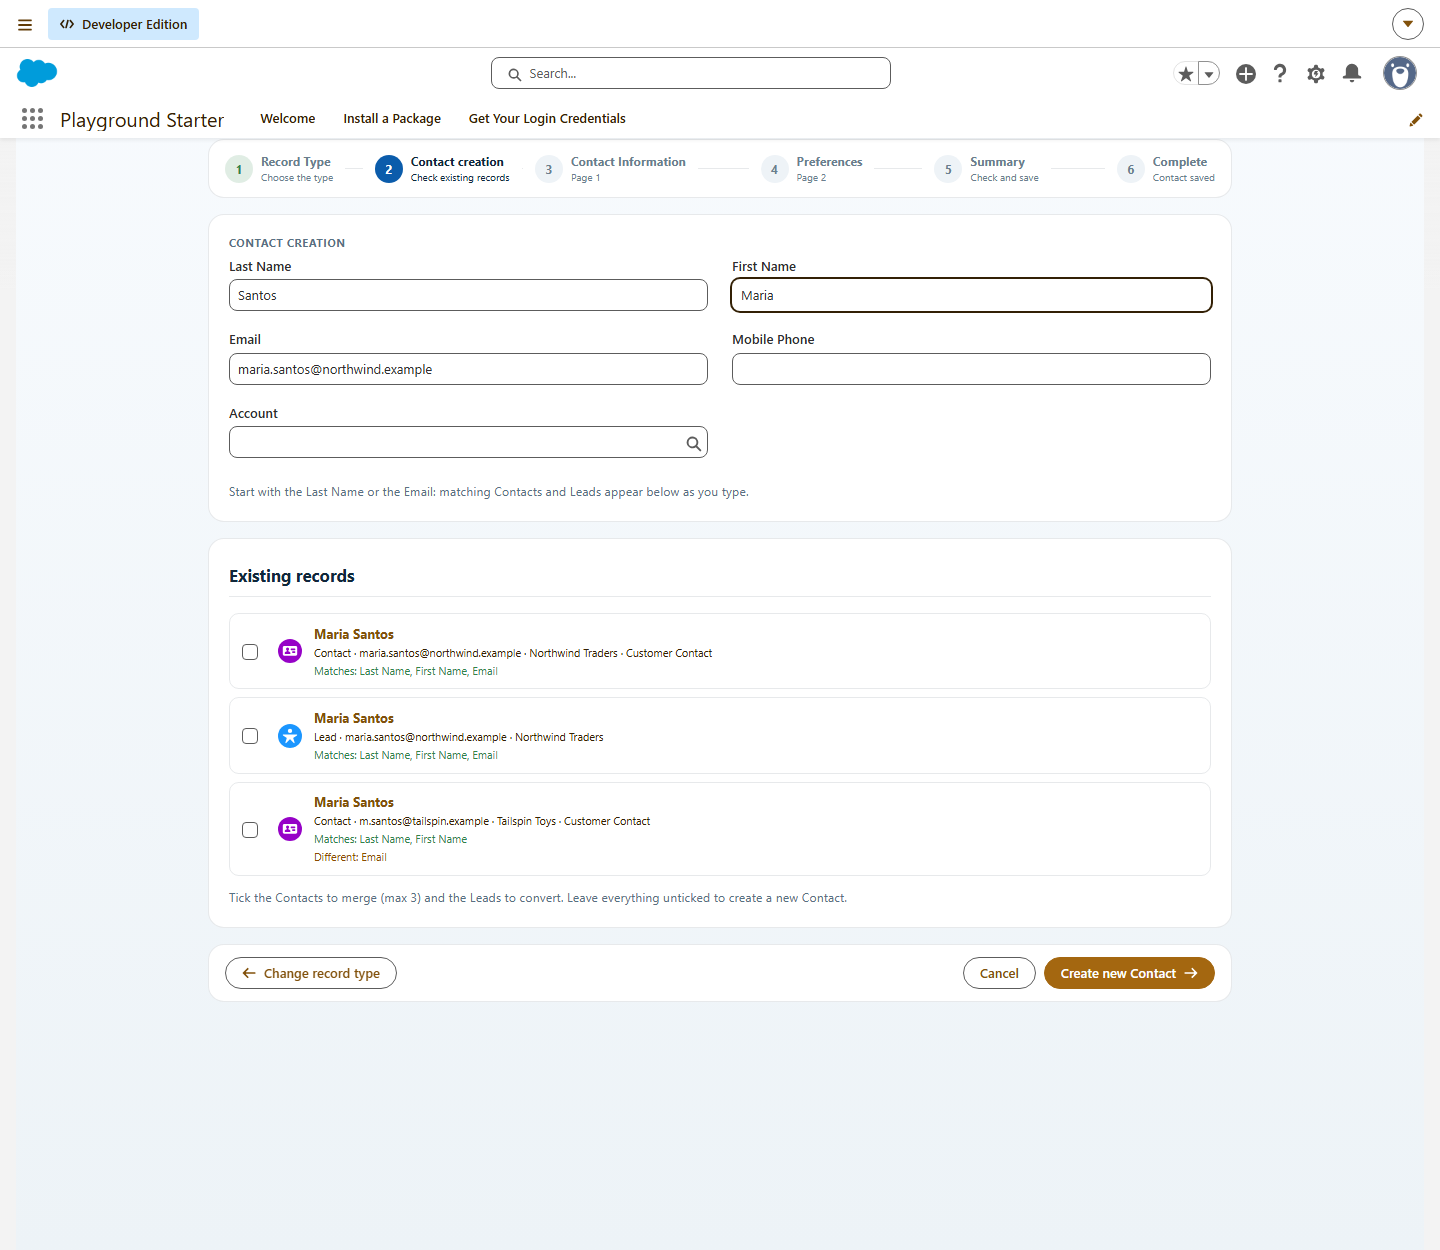
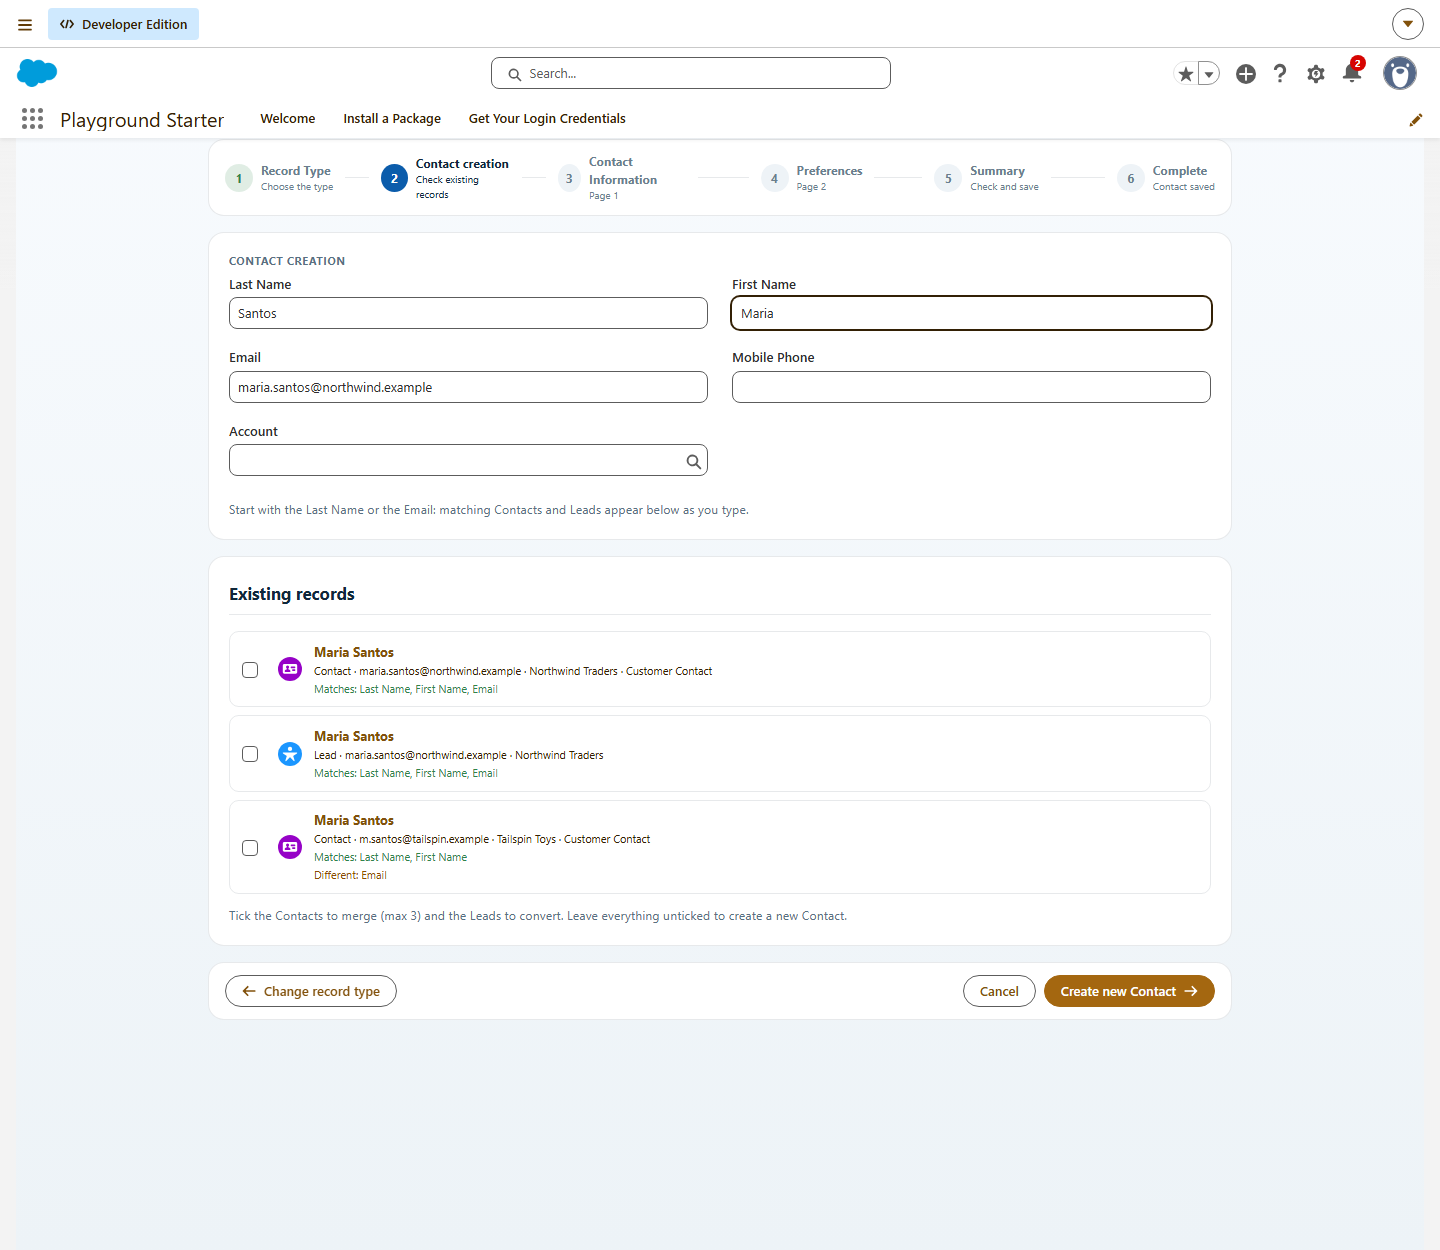
Multi-select picklists side by side; journey connectors always visible
- Multi-select picklists get their own row under the two columns, two side by side
  (record and opportunity wizards)
- Journey connector lines keep a minimum width, so every step is joined
- Sample: Product Interests and Preferred Channels multi-select fields on Contact

diff --git a/force-app/main/default/lwc/wizardFieldUtils/wizardFieldUtils.js b/force-app/main/default/lwc/wizardFieldUtils/wizardFieldUtils.js
@@ -121,17 +121,19 @@ export function decorateField(field, { picklistValues, fieldValues, objectInfo }
     return decorated;
 }
 
-// Groups the fields of one page into sections with a left and a right column.
+// Groups the fields of one page into sections with a left and a right column. Multi-select picklists are wide:
+// they get their own row under the columns (wideFields), two side by side.
 export function buildSections(fields, page, context) {
     const groups = new Map();
     fields.forEach((field) => {
         if (page !== undefined && field.pageNumber !== page) return;
         if (!groups.has(field.section)) {
-            groups.set(field.section, { name: field.section, order: field.sectionOrder, left: [], right: [] });
+            groups.set(field.section, { name: field.section, order: field.sectionOrder, left: [], right: [], wide: [] });
         }
         const group = groups.get(field.section);
         const decorated = decorateField(field, context);
-        if (field.columnNumber === 2) group.right.push(decorated);
+        if (field.isMultiPicklist) group.wide.push(decorated);
+        else if (field.columnNumber === 2) group.right.push(decorated);
         else group.left.push(decorated);
     });
     return Array.from(groups.values())
@@ -141,7 +143,9 @@ export function buildSections(fields, page, context) {
             columns: [
                 { key: 'left', fields: group.left.sort((a, b) => a.sortOrder - b.sortOrder) },
                 { key: 'right', fields: group.right.sort((a, b) => a.sortOrder - b.sortOrder) }
-            ]
+            ],
+            wideFields: group.wide.sort((a, b) => a.columnNumber - b.columnNumber || a.sortOrder - b.sortOrder),
+            hasWide: group.wide.length > 0
         }));
 }
 

diff --git a/force-app/main/default/lwc/wizardFieldUtils/__tests__/wizardFieldUtils.test.js b/force-app/main/default/lwc/wizardFieldUtils/__tests__/wizardFieldUtils.test.js
@@ -15,7 +15,9 @@ const OBJECT_INFO = {
         Amount: { label: 'Amount', dataType: 'Currency', scale: 2 },
         Region__c: { label: 'Region', dataType: 'Picklist' },
         City__c: { label: 'City', dataType: 'Picklist', controllerName: 'Region__c' },
-        HasOptedOutOfEmail: { label: 'Email Opt Out', dataType: 'Boolean', required: true }
+        HasOptedOutOfEmail: { label: 'Email Opt Out', dataType: 'Boolean', required: true },
+        Interests__c: { label: 'Interests', dataType: 'MultiPicklist' },
+        Channels__c: { label: 'Channels', dataType: 'MultiPicklist' }
     }
 };
 
@@ -97,6 +99,20 @@ describe('buildSections and payload', () => {
         expect(payload([{ apiName: 'Tags__c' }], { Tags__c: ['A', 'B'] })).toEqual({ Tags__c: 'A;B' });
         expect(hasValue([])).toBe(false);
         expect(hasValue(0)).toBe(true);
+    });
+});
+
+describe('wide fields', () => {
+    it('puts multi-select picklists in their own row, left before right', () => {
+        const fields = [
+            resolveField(row('LastName'), OBJECT_INFO),
+            resolveField(row('Channels__c', { columnNumber: 2 }), OBJECT_INFO),
+            resolveField(row('Interests__c'), OBJECT_INFO)
+        ];
+        const [section] = buildSections(fields, 1, { picklistValues: {}, fieldValues: {}, objectInfo: OBJECT_INFO });
+        expect(section.hasWide).toBe(true);
+        expect(section.wideFields.map((f) => f.apiName)).toEqual(['Interests__c', 'Channels__c']);
+        expect(section.columns[0].fields.map((f) => f.apiName)).toEqual(['LastName']);
     });
 });
 

diff --git a/force-app/main/default/lwc/recordWizard/recordWizard.html b/force-app/main/default/lwc/recordWizard/recordWizard.html
@@ -188,6 +188,16 @@
                                 </div>
                             </template>
                         </div>
+                        <template lwc:if={section.hasWide}>
+                            <div class="wide-grid">
+                                <template for:each={section.wideFields} for:item="field">
+                                    <div key={field.key} class="field-tile">
+                                        <c-wizard-field-input field={field} data-field-api={field.apiName}
+                                            onfieldchange={handleFieldChange}></c-wizard-field-input>
+                                    </div>
+                                </template>
+                            </div>
+                        </template>
                     </section>
                 </template>
             </main>

diff --git a/force-app/main/default/lwc/opportunityWizard/opportunityWizard.html b/force-app/main/default/lwc/opportunityWizard/opportunityWizard.html
@@ -60,6 +60,16 @@
                                 </div>
                             </template>
                         </div>
+                        <template lwc:if={section.hasWide}>
+                            <div class="wide-grid">
+                                <template for:each={section.wideFields} for:item="field">
+                                    <div key={field.key} class="field-tile">
+                                        <c-wizard-field-input field={field} data-field-api={field.apiName}
+                                            onfieldchange={handleFieldChange}></c-wizard-field-input>
+                                    </div>
+                                </template>
+                            </div>
+                        </template>
                     </section>
                 </template>
             </main>

diff --git a/force-app/main/default/lwc/recordWizard/recordWizard.css b/force-app/main/default/lwc/recordWizard/recordWizard.css
@@ -107,7 +107,8 @@
 }
 
 .journey-line {
-    flex: 1;
+    flex: 1 1 1.5rem;
+    min-width: 1.5rem;
     height: 1px;
     background: var(--wizard-border);
 }
@@ -635,4 +636,18 @@
     display: flex;
     flex-direction: column;
     gap: 0.5rem;
+}
+
+/* Multi-select picklists: a row under the two columns, two side by side */
+.wide-grid {
+    display: grid;
+    grid-template-columns: 1fr 1fr;
+    gap: 0 1.5rem;
+    margin-top: 0.25rem;
+}
+
+@media (max-width: 760px) {
+    .wide-grid {
+        grid-template-columns: 1fr;
+    }
 }

diff --git a/force-app/main/default/lwc/opportunityWizard/opportunityWizard.css b/force-app/main/default/lwc/opportunityWizard/opportunityWizard.css
@@ -107,7 +107,8 @@
 }
 
 .journey-line {
-    flex: 1;
+    flex: 1 1 1.5rem;
+    min-width: 1.5rem;
     height: 1px;
     background: var(--wizard-border);
 }
@@ -322,4 +323,18 @@
 
 .product-name small {
     color: #587083;
+}
+
+/* Multi-select picklists: a row under the two columns, two side by side */
+.wide-grid {
+    display: grid;
+    grid-template-columns: 1fr 1fr;
+    gap: 0 1.5rem;
+    margin-top: 0.25rem;
+}
+
+@media (max-width: 760px) {
+    .wide-grid {
+        grid-template-columns: 1fr;
+    }
 }
